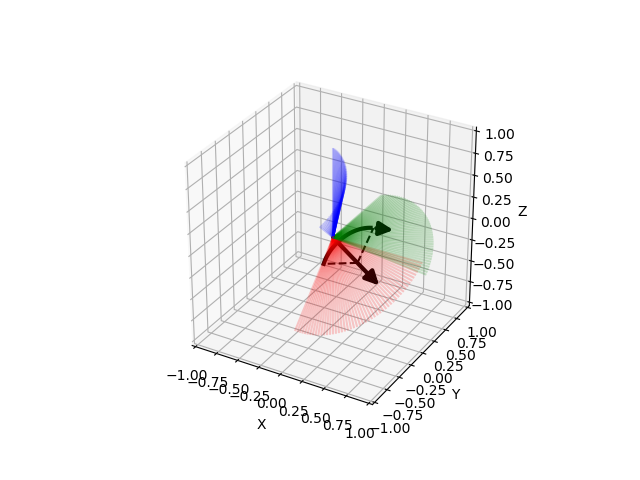
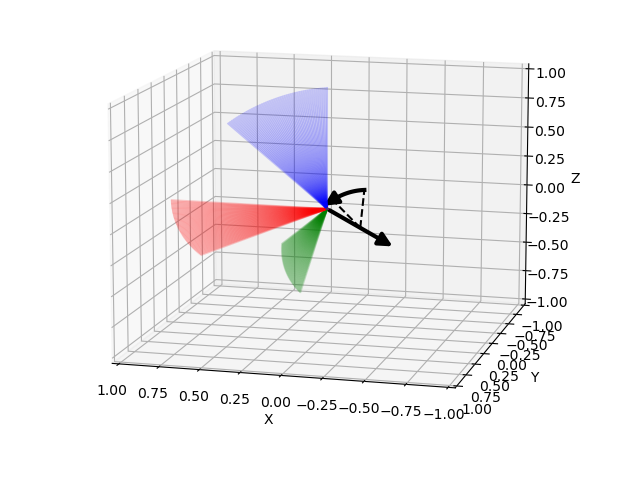
Clean up axis-angle example

Changed region(s): [[0.1562, 0.0938, 0.9062, 0.9062]]

diff --git a/examples/plot_axis_angle.py b/examples/plot_axis_angle.py
@@ -14,11 +14,13 @@ from pytransform3d.rotations import (random_axis_angle, matrix_from_axis_angle,
                                      plot_basis, plot_axis_angle)
 
 
-original = random_axis_angle(np.random.RandomState(0))
+original = random_axis_angle(np.random.RandomState(5))
 ax = plot_axis_angle(a=original)
 for fraction in np.linspace(0, 1, 50):
     a = original.copy()
     a[-1] = fraction * original[-1]
     R = matrix_from_axis_angle(a)
     plot_basis(ax, R, alpha=0.2)
+plt.subplots_adjust(left=0, right=1, bottom=0, top=1.1)
+ax.view_init(azim=105, elev=12)
 plt.show()
